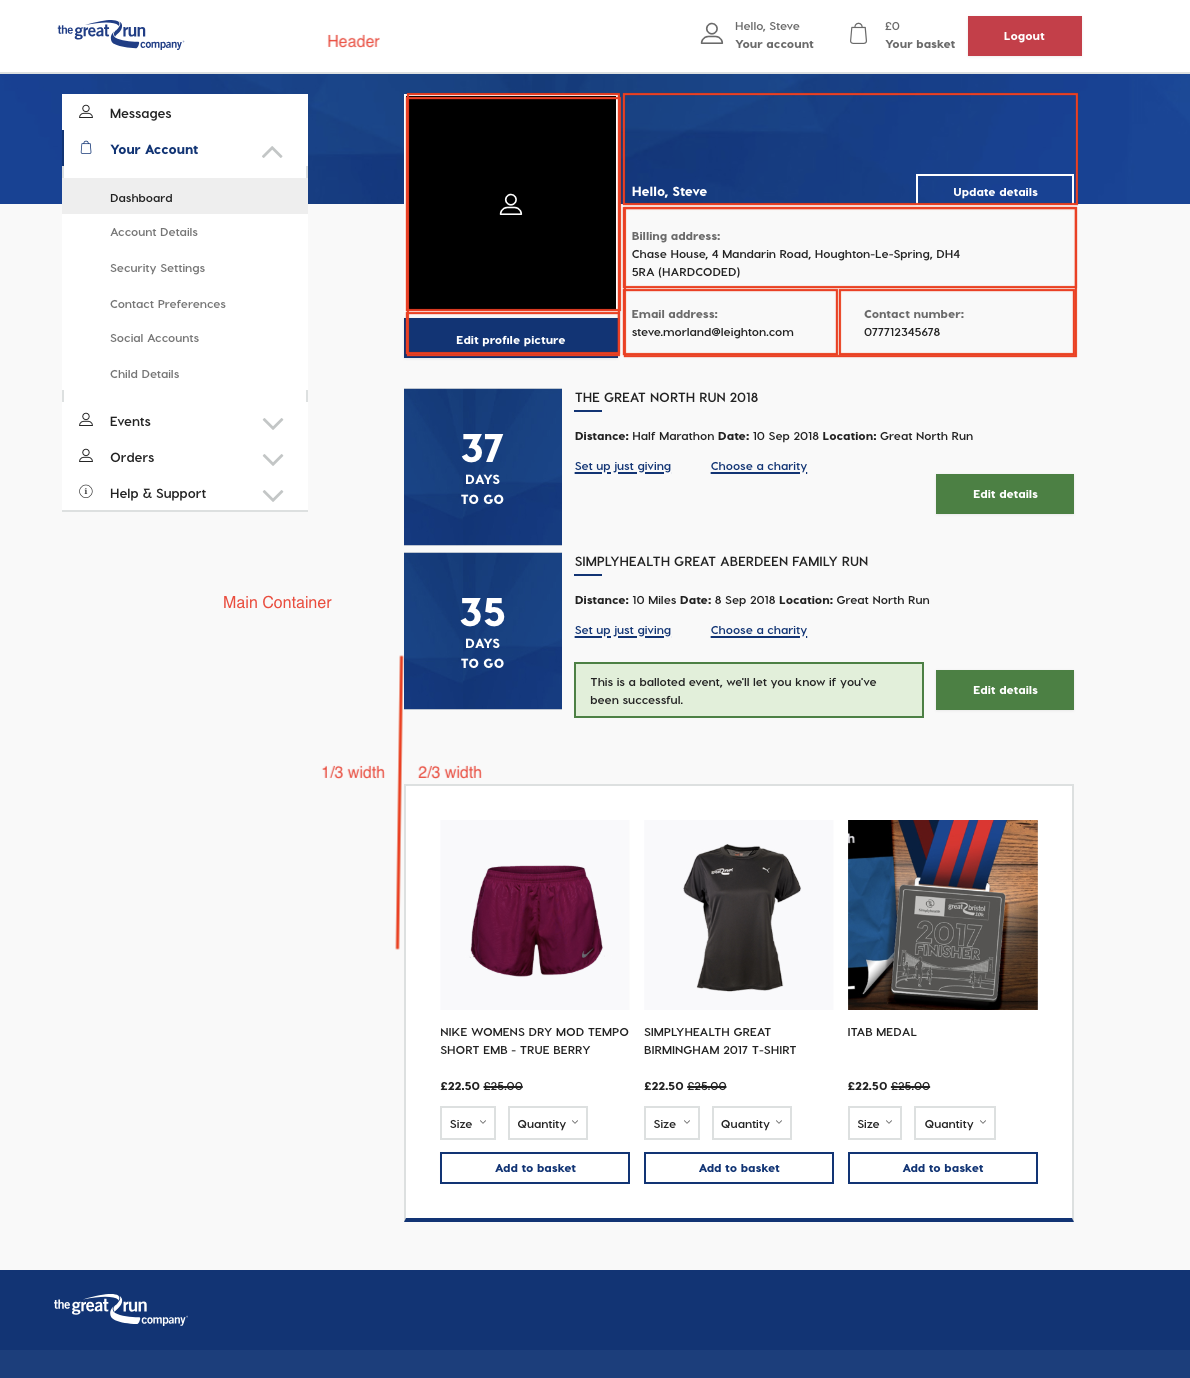
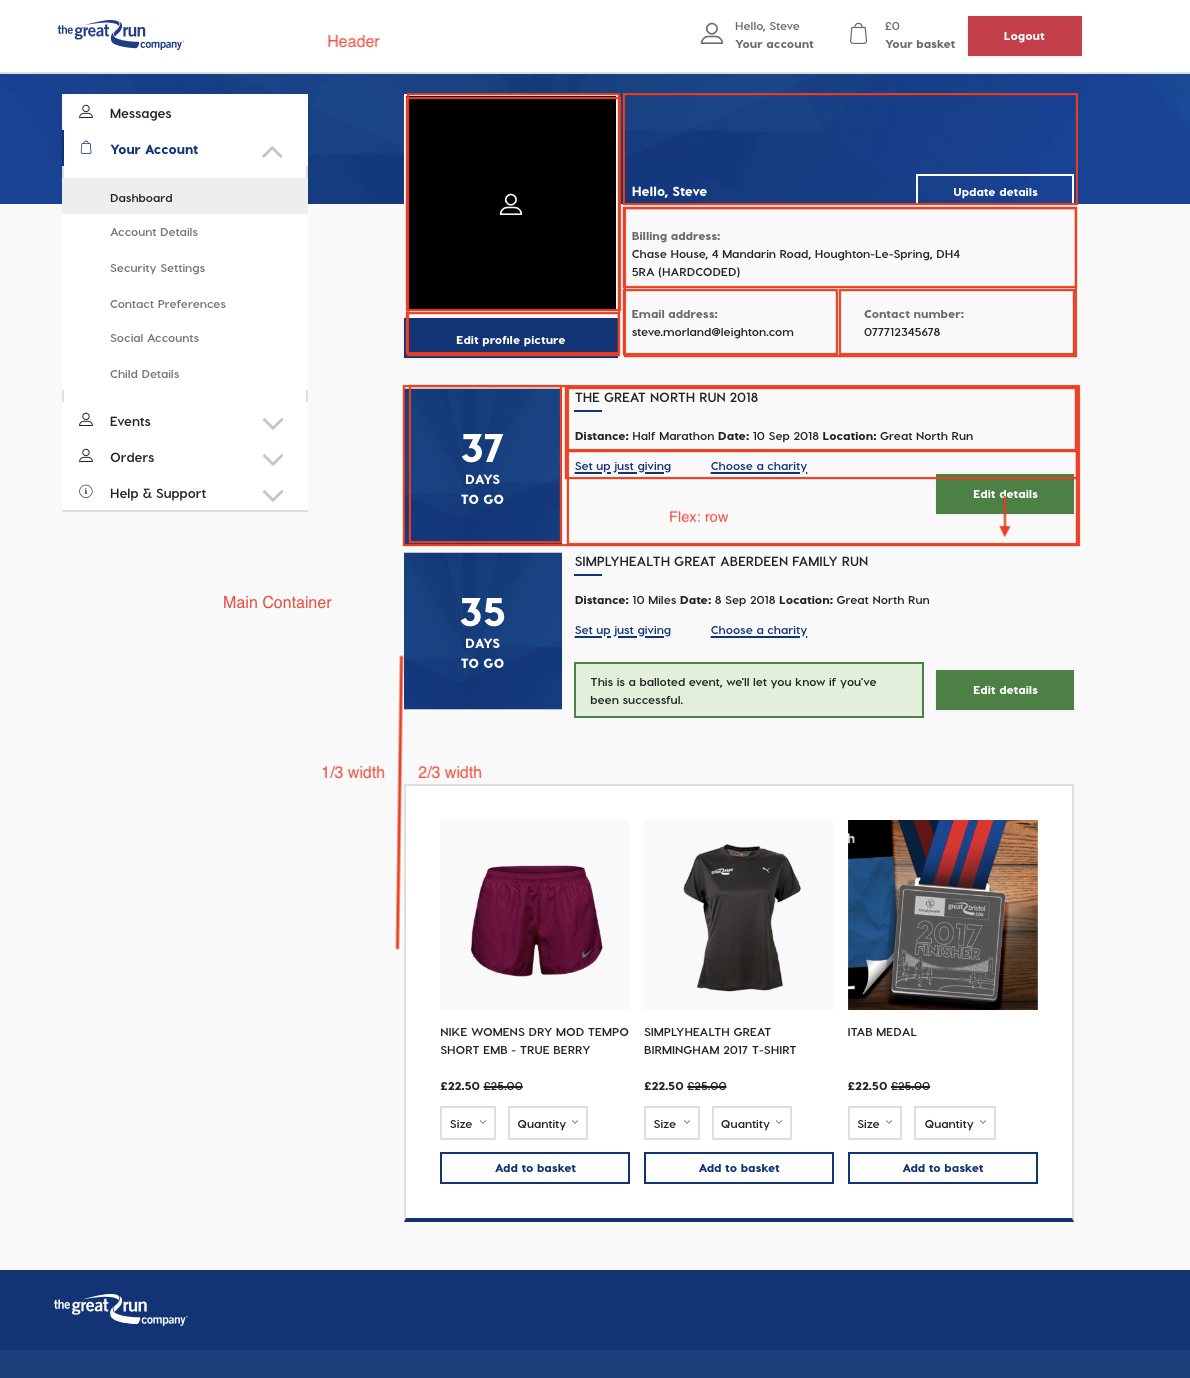
Complete events section.

diff --git a/index.html b/index.html
@@ -91,18 +91,75 @@
           <div class="main-body-content-profile">
             <div class="main-body-content-profile-image">
               <p>Image!</p>
-              <p>Lorem ipsum dolor sit amet.</p>
+              <p>Edit profile picture</p>
             </div>
-            <div class="main-body-content-profile-update">
-              <p>Hello, Steve</p>
-              <p>Update details</p>
+            <div class="main-body-content-profile-info">
+              <div class="main-body-content-profile-info-update">
+                <p>Hello, Steve</p>
+                <p>Update details</p>
+              </div>
+              <div class="main-body-content-profile-info-address">
+                <p>Billing address:</p>
+                <p>Chase House, 4 Mandarin Road, Houghton-Le-Spring, DH4 5RA (HARDCODED)</p>
+              </div>
+              <div class="main-body-content-profile-info-contact">
+                <div class="main-body-content-profile-info-contact-email">
+                  <p>Email address:</p>
+                  <p>steve.morland@leighton.com</p>
+                </div>
+                <div class="main-body-content-profile-info-contact-phone">
+                  <p>Contact number:</p>
+                  <p>077712345678</p>
+                </div>
+              </div>
             </div>
           </div>
-          <div class="main-body-content-event">
-            <p>Lorem ipsum dolor sit amet, consectetur adipisicing elit. Odio illo aperiam, dolore fugit eum quas nulla sit vero facilis incidunt.</p>
-          </div>
-          <div class="main-body-content-event">
-            <p>Lorem ipsum dolor sit amet, consectetur adipisicing elit. Odio illo aperiam, dolore fugit eum quas nulla sit vero facilis incidunt.</p>
+          <div class="main-body-content-events">
+            <div class="main-body-content-event">
+              <div class="main-body-content-event-countdown">
+                <p class="text-white-large">37</p>
+                <p class="text-white">DAYS</p>
+                <p class="text-white">TO GO</p>
+              </div>
+              <div class="main-body-content-event-info">
+                <div class="main-body-content-event-info-details">
+                  <p>THE GREAT NORTH RUN 2018</p>
+                  <p class="blue-line-top">_</p>
+                  <p><b>Distance: </b>Half Marathon <b>Date: </b>10 Sep 2018 <b>Location: </b>Great North Run</p>
+                </div>
+                <div class="main-body-content-event-info-links">
+                  <a href="#" target="_blank">Set up just giving</a>
+                  <a href="#" target="_blank">Choose a charity</a>
+                </div>
+                <div class="main-body-content-event-info-edit">
+                  <button type="button" name="button">Edit details</button>
+                </div>
+              </div>
+            </div>
+            <div class="main-body-content-event">
+              <div class="main-body-content-event-countdown">
+                <p class="text-white-large">35</p>
+                <p class="text-white">DAYS</p>
+                <p class="text-white">TO GO</p>
+              </div>
+              <div class="main-body-content-event-info">
+                <div class="main-body-content-event-info-details">
+                  <p>SIMPLYHEALTH GREAT ABERDEEN FAMILY RUN</p>
+                  <p class="blue-line-top">_</p>
+                  <p><b>Distance: </b>10 Miles <b>Date: </b>8 Sep 2018 <b>Location: </b>Great North Run</p>
+                </div>
+                <div class="main-body-content-event-info-links">
+                  <a href="#" target="_blank">Set up just giving</a>
+                  <a href="#" target="_blank">Choose a charity</a>
+                </div>
+                <div class="main-body-content-event-info-edit">
+                  <div class="main-body-content-event-info-edit-box">
+                    <p>This is a balloted event, we'll let you know if you've been successful.</p>
+                  </div>
+                  <button type="button" name="button">Edit details</button>
+                </div>
+              </div>
+            </div>
           </div>
         </div>
       </div>

diff --git a/resources/css/style.css b/resources/css/style.css
@@ -26,8 +26,25 @@ html {
   font-weight: 300;
 }
 
-.bold {
-  font-weight: 700;
+a {
+  color: #003479;
+  text-decoration: underline;
+}
+
+b { font-weight: 700; }
+
+.bold { font-weight: 700; }
+
+.text-white { color: white; }
+
+.text-white-large {
+  color: white;
+  font-size: 2rem;
+}
+
+.blue-line-top {
+  color: #f9f9f9;
+  border-top: 2px solid #003479;
 }
 
 /* Background Colours etc. */
@@ -93,10 +110,8 @@ header .header-item-text {
 }
 
 .btn-red {
-  padding: 0.5rem;
+  padding: 0.5rem 1rem;
   background-color: #d43045;
-  padding-left: 1rem;
-  padding-right: 1rem;
   color: #f9f9f9;
 }
 
@@ -156,6 +171,8 @@ header .header-item-text {
   border: 1px solid red;
 }
 
+/* MAIN-BODY-CONTENT-PROFILE */
+
 .main-body-content-profile {
   border: 1px solid red;
   display: flex;
@@ -166,13 +183,121 @@ header .header-item-text {
   border: 1px solid red;
   display: flex;
   flex-direction: column;
+  width: 33%;
 }
 
-.main-body-content-profile-update {
+.main-body-content-profile-info {
+  border: 1px solid red;
+  display: flex;
+  flex-direction: column;
+  width: 67%;
+}
+
+.main-body-content-profile-info-update {
   border: 1px solid red;
   display: flex;
   flex-direction: row;
   justify-content: space-between;
   align-items: flex-end;
   width: 100%;
+}
+
+.main-body-content-profile-info-address {
+  border: 1px solid red;
+  display: flex;
+  flex-direction: column;
+}
+
+.main-body-content-profile-info-contact {
+  border: 1px solid red;
+  display: flex;
+  flex-direction: row;
+  /* justify-content: space-between; */
+}
+
+.main-body-content-profile-info-contact-email {
+  border: 1px solid red;
+  display: flex;
+  flex-direction: column;
+  width: 50%;
+}
+
+.main-body-content-profile-info-contact-phone {
+  border: 1px solid red;
+  display: flex;
+  flex-direction: column;
+  width: 50%;
+}
+
+/* MAIN-BODY-CONTENT-EVENT */
+
+.main-body-content-events {
+  border: 1px solid red;
+  display: flex;
+  flex-direction: column;
+  margin: 2rem 0;
+}
+
+.main-body-content-event {
+  border: 1px solid red;
+  display: flex;
+  flex-direction: row;
+}
+
+.main-body-content-event-countdown {
+  border: 1px solid red;
+  width: 20%;
+  display: flex;
+  flex-direction: column;
+  align-items: center;
+  background-color: #003479;
+  padding: 3rem 0;
+}
+
+.main-body-content-event-info {
+  border: 1px solid red;
+  display: flex;
+  flex-direction: column;
+  justify-content: center;
+  width: 80%;
+}
+
+.main-body-content-event-info-details {
+  border: 1px solid red;
+}
+
+.main-body-content-event-info-details p {
+  padding: 0.3rem;
+}
+
+.main-body-content-event-info-links {
+  border: 1px solid red;
+  padding: 0.3rem;
+}
+
+.main-body-content-event-info-edit {
+  border: 1px solid red;
+  display: flex;
+  flex-direction: row;
+  width: 100%;
+  justify-content: space-around;
+  align-items: center;
+}
+
+.main-body-content-event-info-edit-box {
+  display: flex;
+  flex-direction: column;
+  justify-content: center;
+  align-items: center;
+  background-color: #dff0d8;
+  border: 2px solid #39823c;
+  padding: 0.5rem;
+}
+
+.main-body-content-event-info-edit button {
+  border: 1px solid red;
+  padding: 0.5rem 1.5rem;
+  background-color: #39823c;
+  color: #f9f9f9;
+  margin-left: auto;
 }
